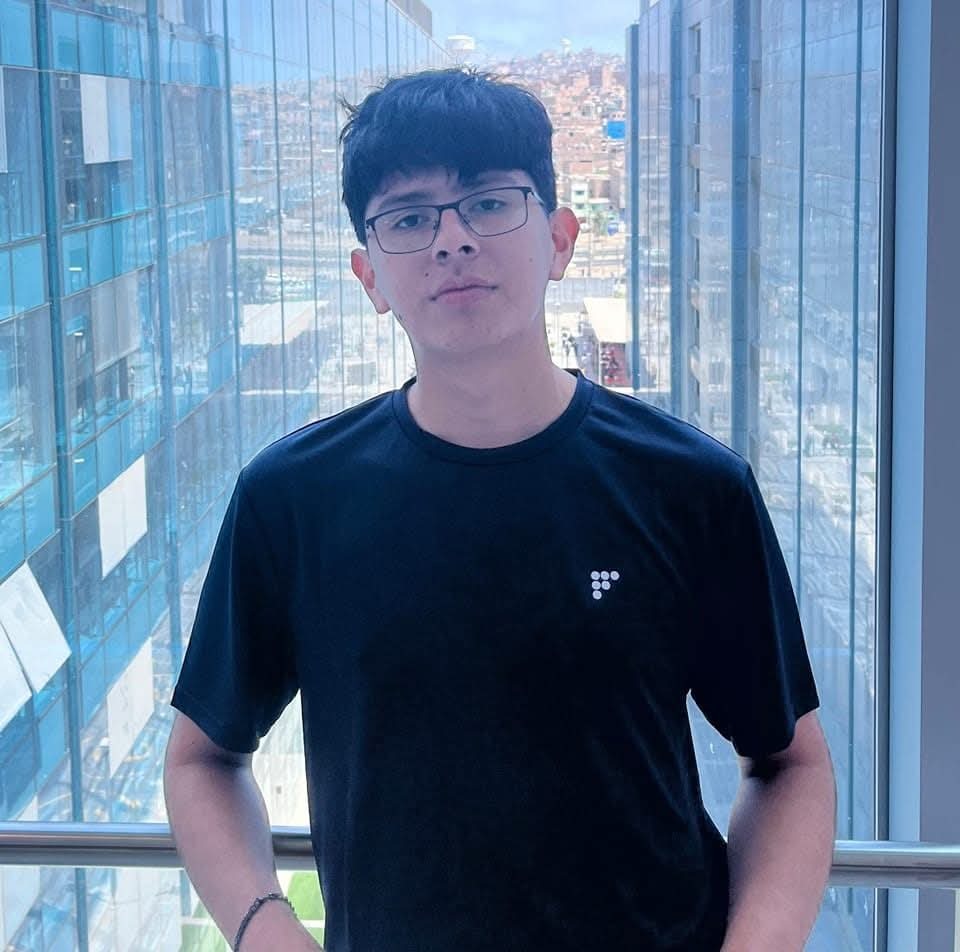
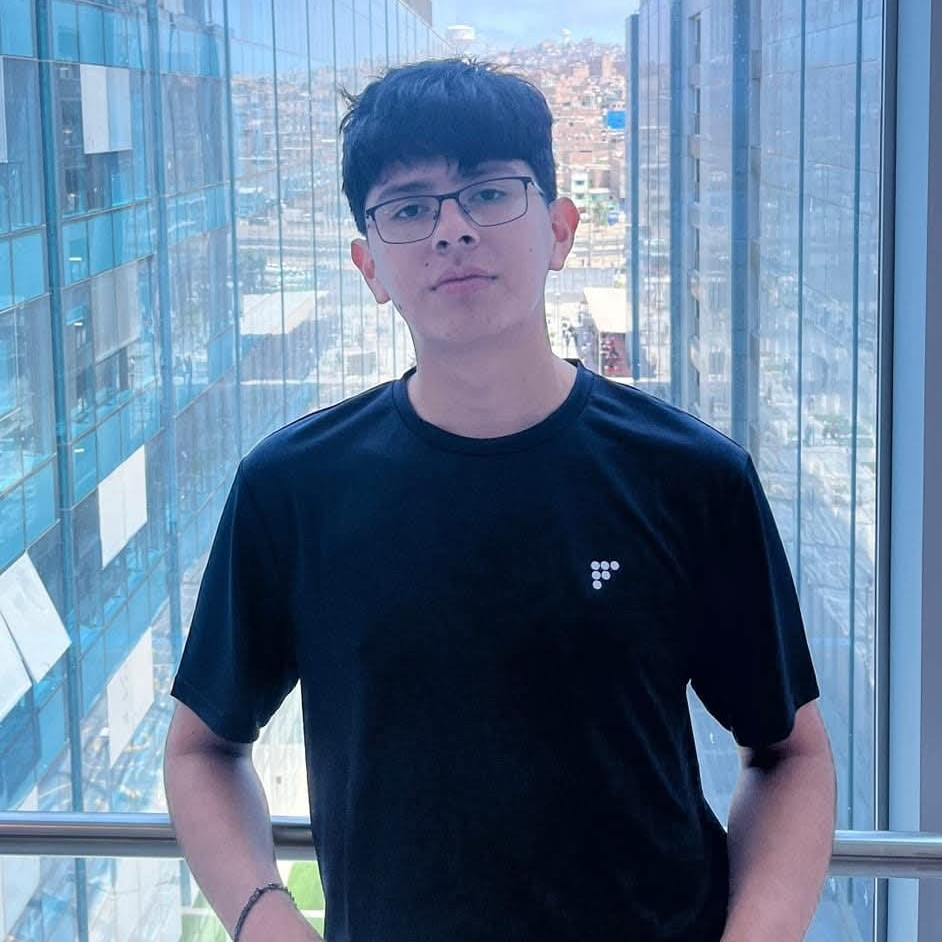
Se adapto practicas recomendadas para mejorar el SEO

diff --git a/src/components/home/home.tsx b/src/components/home/home.tsx
@@ -30,13 +30,13 @@ function home() {
                         </div>
                         <div className="redes-home flex max-lg:justify-center gap-[30px] mt-[50px]">
                             <a href='https://github.com/JerryRivera609' target='_blank'>
-                                <img className='w-[35px] h-[35px]' src={github} alt="GitHub" />
+                                <img className='w-[32px] h-[32px]' src={github} alt="GitHub" />
                             </a>
                             <a href='https://www.linkedin.com/in/jerryrivera609/' target='_blank'>
-                                <img className='w-[35px] h-[35px]' src={linkedin} alt="Linkedin" />
+                                <img className='w-[32px] h-[32px]' src={linkedin} alt="Linkedin" />
                             </a>
                             <a href='https://www.instagram.com/jerry_609rivera/' target='_blank'>
-                                <img className='w-[35px] h-[35px]' src={instagram} alt="Instagram"/>
+                                <img className='w-[32px] h-[32px]' src={instagram} alt="Instagram"/>
                             </a>
                         </div>
                     </div>

diff --git a/src/components/about/about.tsx b/src/components/about/about.tsx
@@ -32,7 +32,7 @@ function about(){
             <div className="main-about p-5 text-white my-24 w-full relative z-[1000]">
                 <div className="tittle-about flex flex-col justify-center items-center loading-none mb-10">
                     <h2 className='text-[3rem] leading-[4rem]'>About Me</h2>
-                    <p className='flex items-center max-sm:text-center gap-1'><img src={stars} className='w-5 h-4' alt="" /> Transforming ideas into digital experiences <img src={stars} className='w-5 h-4' alt="" /></p>
+                    <p className='flex items-center max-sm:text-center gap-1'><img src={stars} className='w-5 h-5' alt="" /> Transforming ideas into digital experiences <img src={stars} className='w-5 h-5' alt="" /></p>
                 </div>
                 <div className="flex max-lg:flex-col-reverse justify-around items-center">
                     <div className="w-140 info-about">
